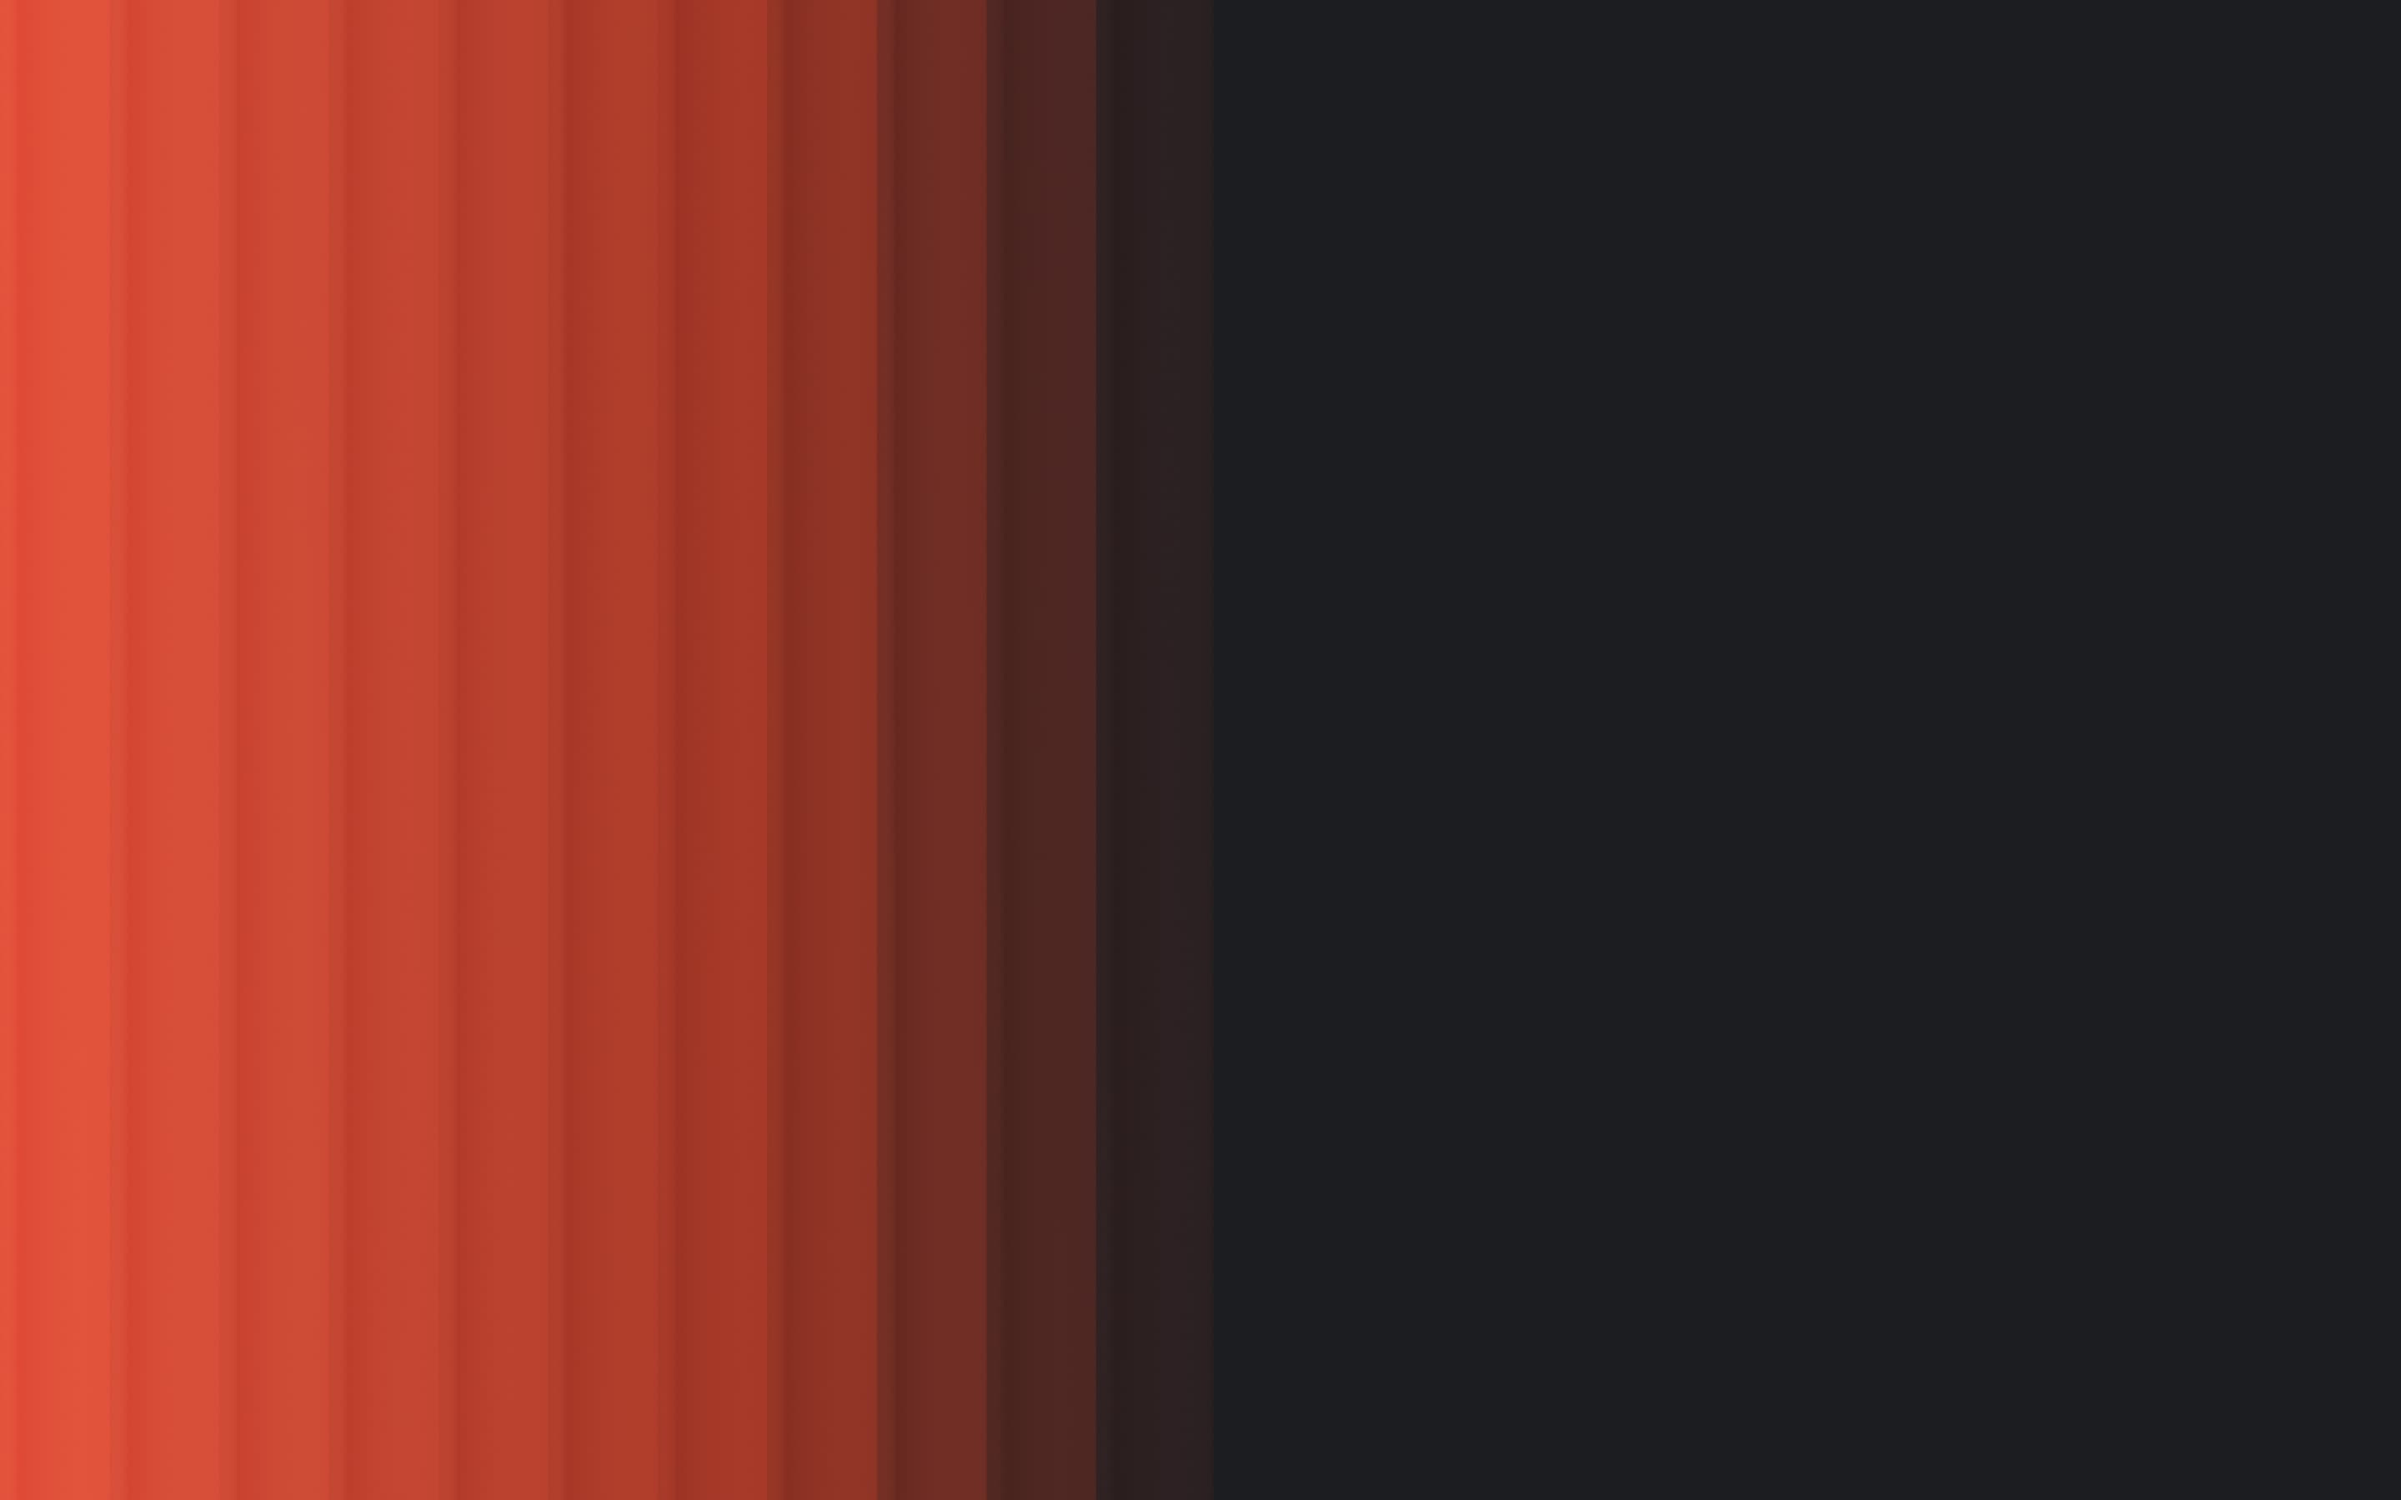
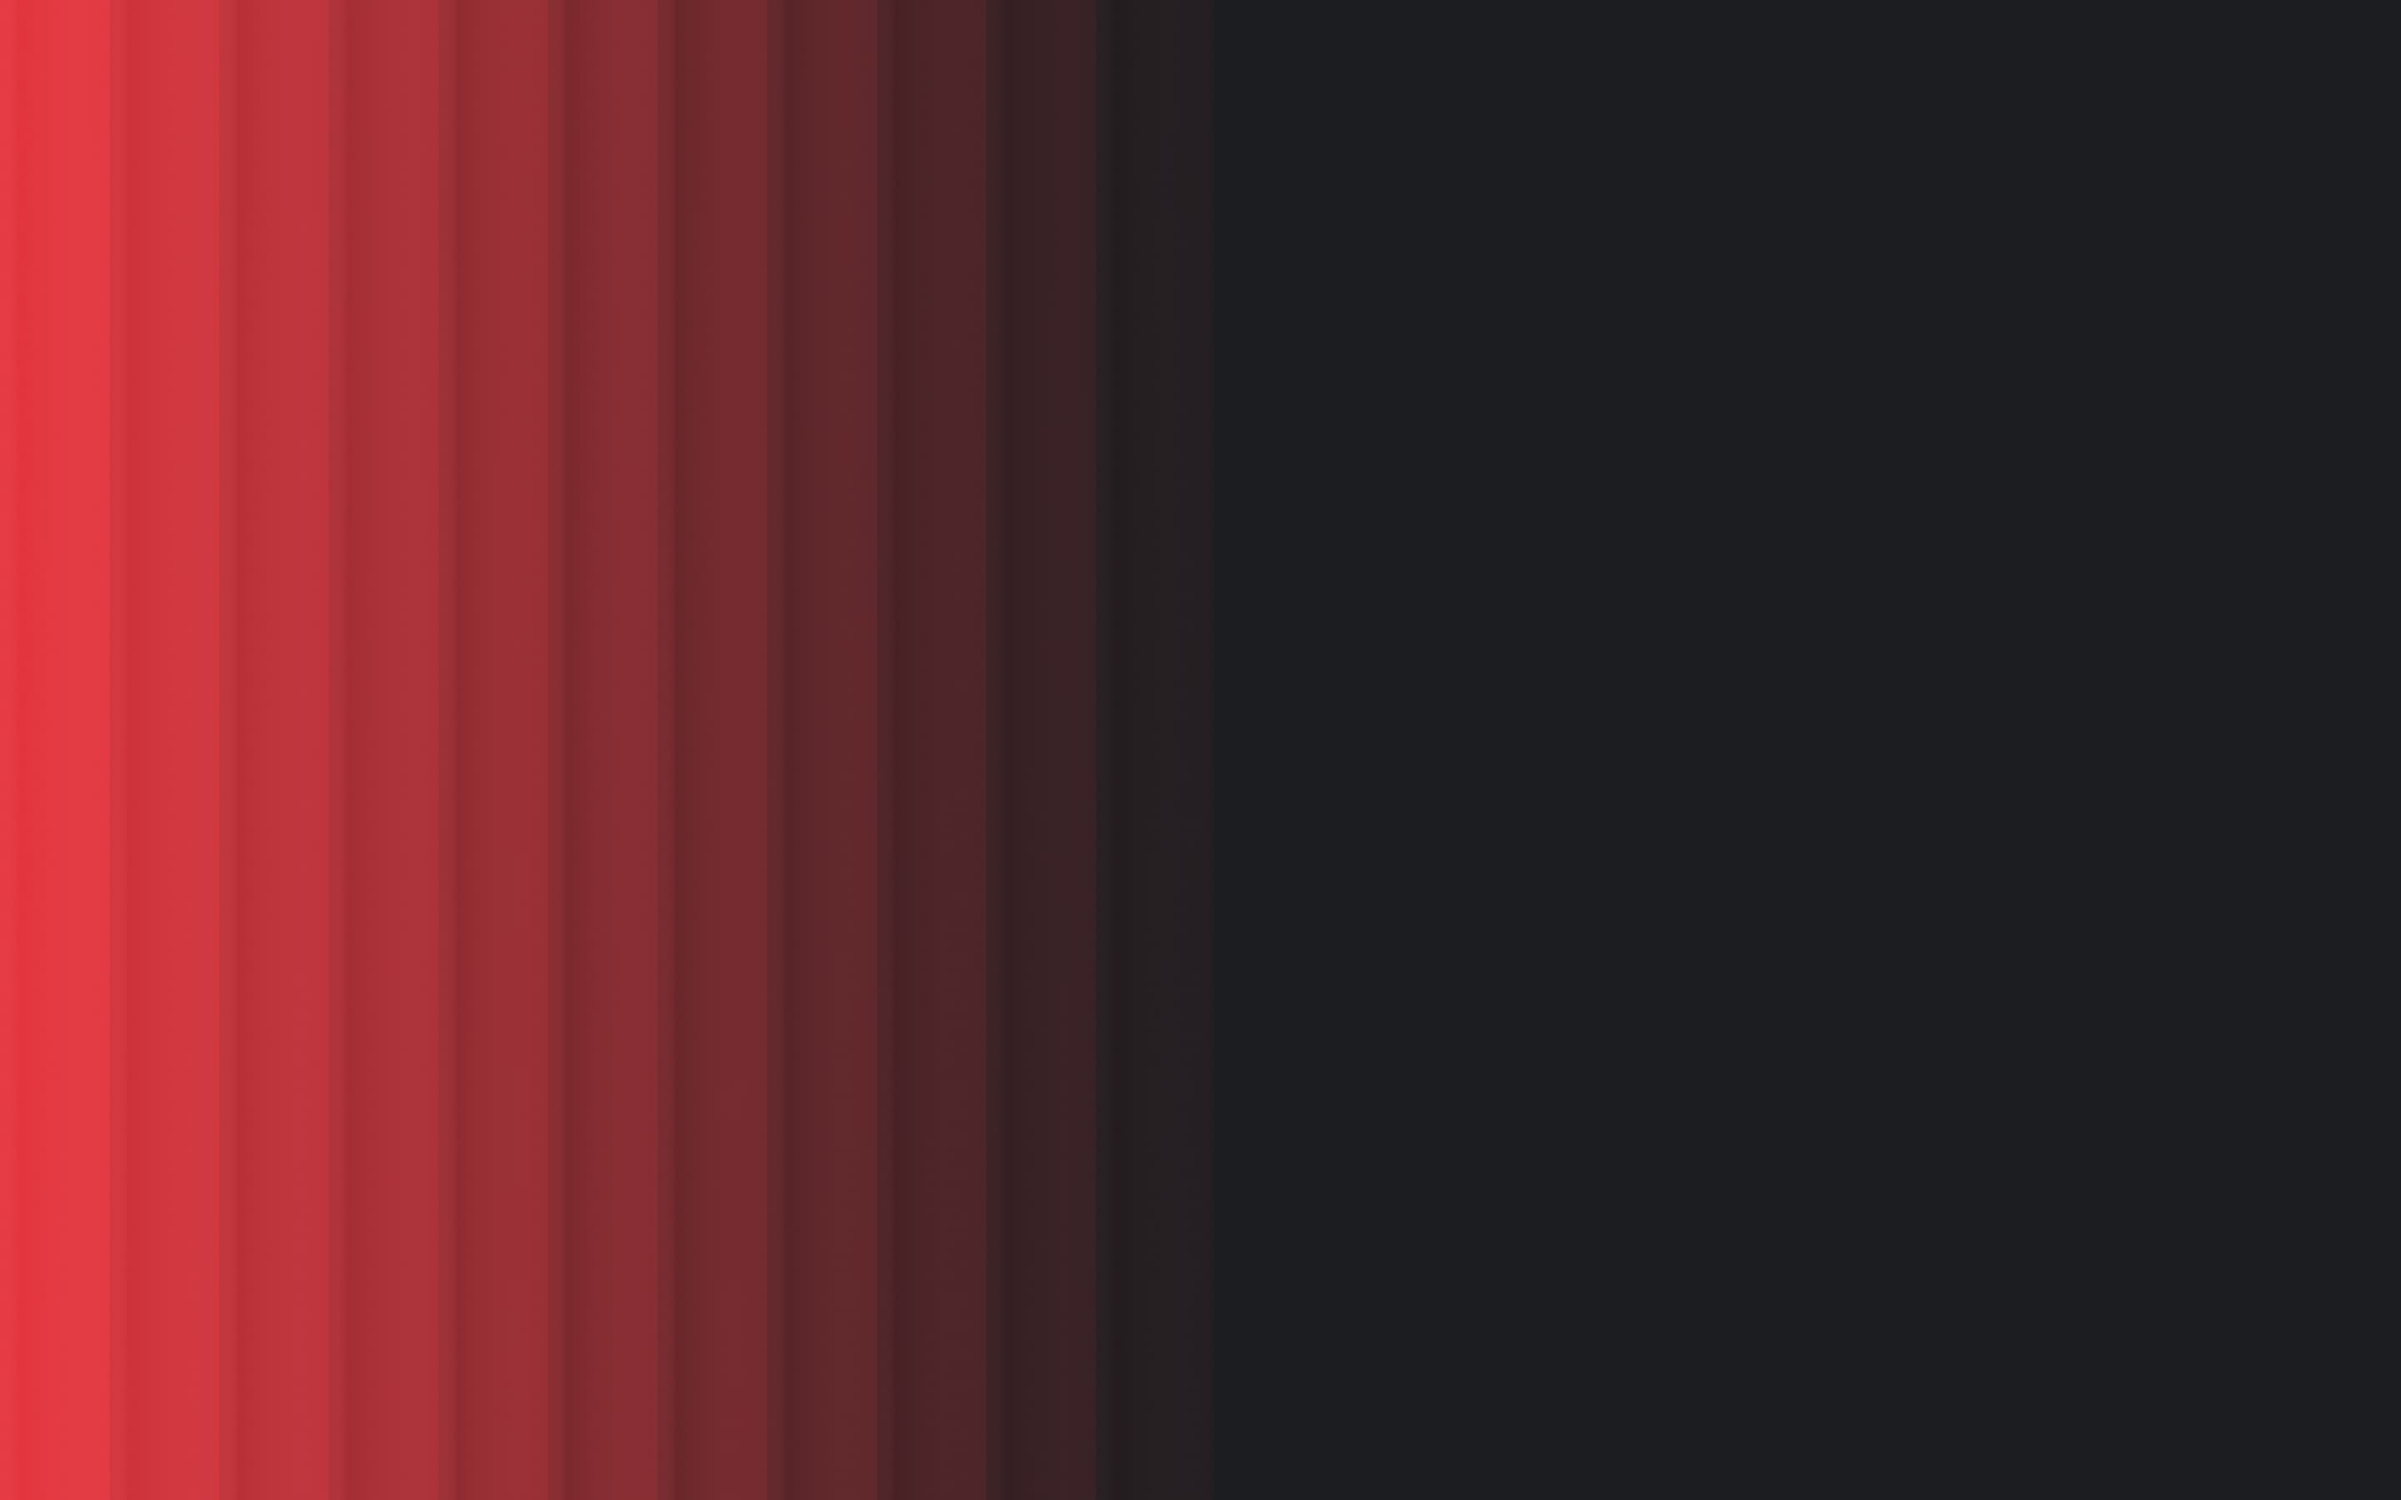
hero background

Changed region(s): [[0.125, 0.0, 0.4375, 1.0], [0.0, 0.7156, 0.0312, 0.7467]]

diff --git a/src/css/Hero.css b/src/css/Hero.css
@@ -1,6 +1,8 @@
 .section-hero {
-  max-width: 375px;
+  /* max-width: 375px; */
+  min-width: 320;
   height: 812px;
+  background-color: #1c1d20;
   background-image: url('../img/Hero/bg_mob.jpg');
   background-repeat: no-repeat;
   background-size: cover;
@@ -76,7 +78,7 @@
     margin-bottom: 187px;
   }
   .soc-icon {
-    margin-left: 263px;
+    margin-left: 247px;
     width: 473px;
     height: 55px;
     gap: 8px;
@@ -119,7 +121,7 @@
     margin-bottom: 243px;
   }
   .soc-icon {
-    margin-left: 935px;
+    margin-left: 760px;
   }
   .soc-item-icon {
     padding: 18px 20px;
